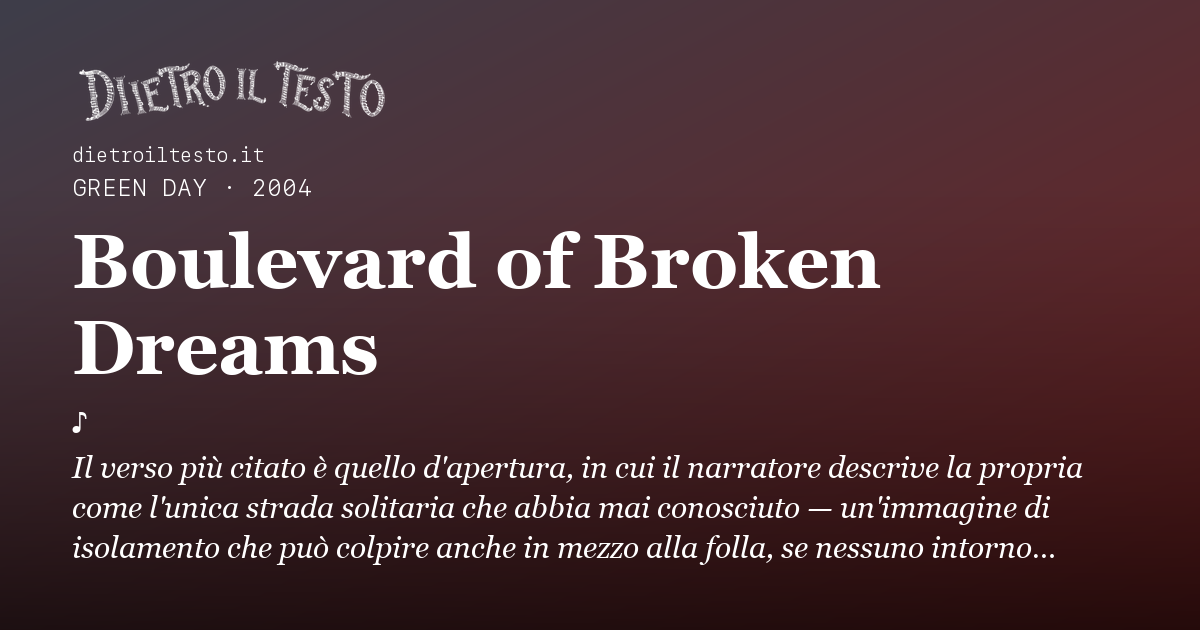
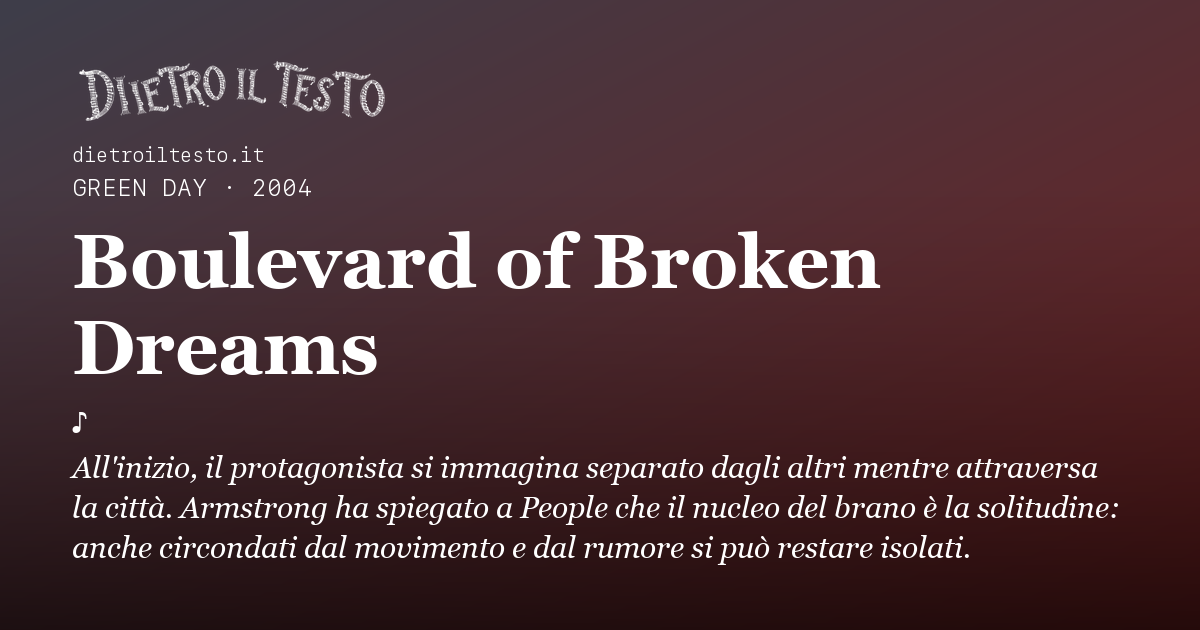
Correggi Boulevard of Broken Dreams e link al testo

Changed region(s): [[0.0617, 0.7238, 0.925, 0.9048]]

diff --git a/ROADMAP.md b/ROADMAP.md
@@ -4165,3 +4165,15 @@ Nella copia separata è stata riscritta la frase iconica a livello di funzione d
 Il proprietario ha scritto «applica e procedi» dopo aver visto la proposta del §30. Il commit `c2279c74` è stato integrato con avanzamento diretto in `main` locale. Rigenerato il sito: 26 file pubblicabili sono cambiati, fra cui la pagina della canzone, le anteprime collegate, l'indice di ricerca e le sitemap. Tutti i file del pacchetto generato coincidono byte per byte con quelli della cartella principale. Il file non tracciato `SEO-LASTMOD-2026-09-21.md` conserva lo stesso hash SHA-256 precedente.
 
 **Controlli:** `check-coerenza`, `check-seo`, `check-link`, `check-filtri`, `check-nature` e `git diff --check` passano. La verifica visiva desktop e mobile della pagina e dell'immagine condivisibile è documentata al §30. La modifica è nella cartella principale locale; non è stata inviata a GitHub né pubblicata online. Le correzioni di altre schede e le proposte di immagini restano in copie separate.
+
+## 33. Proposta separata: correzione di Boulevard of Broken Dreams, 1 ottobre 2026
+
+Il rapporto indipendente `rapporti/orario/10-boulevard-of-broken-dreams.md` segnala tre problemi nella scheda online: la frase iconica traduce parzialmente l'apertura del brano (P3), l'origine del titolo è presentata come una fotografia del 1948 o un poster non documentato (P1), e il pulsante verso il testo porta a un mashup con *Wonderwall* (P3/P5). La segnalazione è stata controllata riaprendo le fonti, senza intervenire nella copia dell'altra AI.
+
+L'[intervista di Jeff Nelson a Billie Joe Armstrong su People](https://people.com/billie-joe-armstrong-breaks-down-green-day-hits-exclusive-8430564) documenta il periodo da solo a New York, oltre due mesi e non alcune settimane, e la solitudine come tema dichiarato. L'[archivio di Gottfried Helnwein](https://www.helnwein.com/article/3097-Helnweins-Boulevard-of-Broken-Dreams?category=artist&site=en&subcategory=news_update) identifica il dipinto con James Dean da cui Armstrong disse di aver preso il titolo; [Thom Donovan, ripubblicato sul sito dell'artista](https://www.helnwein.com/article/6369-The-Meaning-Behind-Boulevard-of-Broken-Dreams-by-Green-Day-and-Walking-Alone-with-James-Dean?category=news&site=cs&subcategory=news_update), lo distingue dall'altro dipinto omonimo con quattro icone in un locale. La [Recording Academy](https://www.grammy.com/awards/categories/record-of-the-year/2006/) conferma il Grammy del 2006 e i produttori Green Day e Rob Cavallo. Il collegamento [Letras corretto](https://www.letras.com/green-day/101227/) è stato aperto nel browser e mostra titolo e artista esatti.
+
+Nella copia separata sono stati riscritti corpo, momento iconico e descrizione SEO, sostituito il collegamento al testo e aggiunta la curiosità documentata sul Grammy. Non compaiono più versi o traduzioni, né la fotografia datata 1948. Le fonti visibili ora sono le quattro pagine pertinenti riaperte; la fonte sugli ascolti è conservata senza toccare il dato Spotify. L'immagine condivisibile della sola canzone è stata rigenerata e controllata per intero. `ultimaVerifica` resta vuoto perché non è stato eseguito un audit completo di tutti i dati della scheda.
+
+**Prove:** `check-coerenza` 317 canzoni senza problemi, `check-seo` 688 pagine senza problemi, `check-link` senza URL malformati o link interni rotti, `check-attribuzioni --tutte` senza testate nominate ma assenti dalle fonti (30 avvisi informativi preesistenti su altre schede), `git diff --check` pulito. Anteprima su desktop 1280 px e mobile 390 px senza scorrimento orizzontale o errori di console; titolo, nuova descrizione, curiosità e destinazione del pulsante risultano corretti.
+
+**Stato:** proposta locale isolata, pronta per la revisione del proprietario. Nessun trasferimento nella cartella principale, push o pubblicazione. Le altre correzioni in revisione restano nelle rispettive copie.
